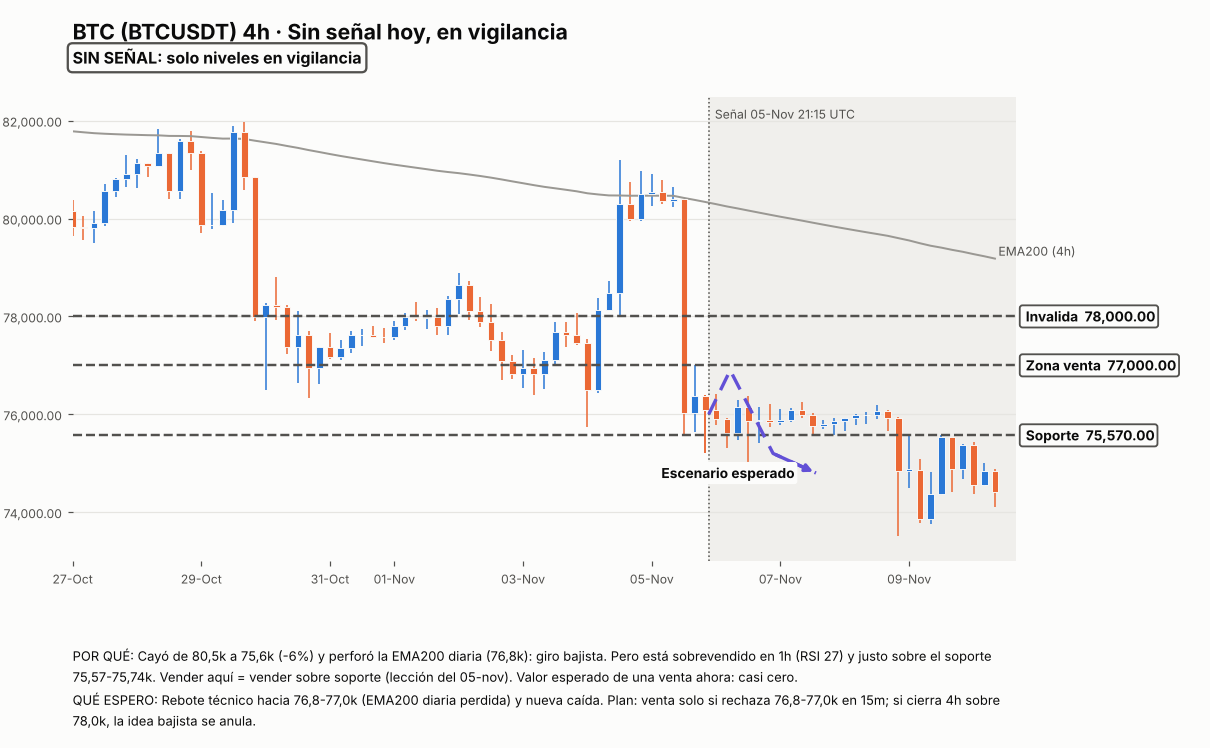
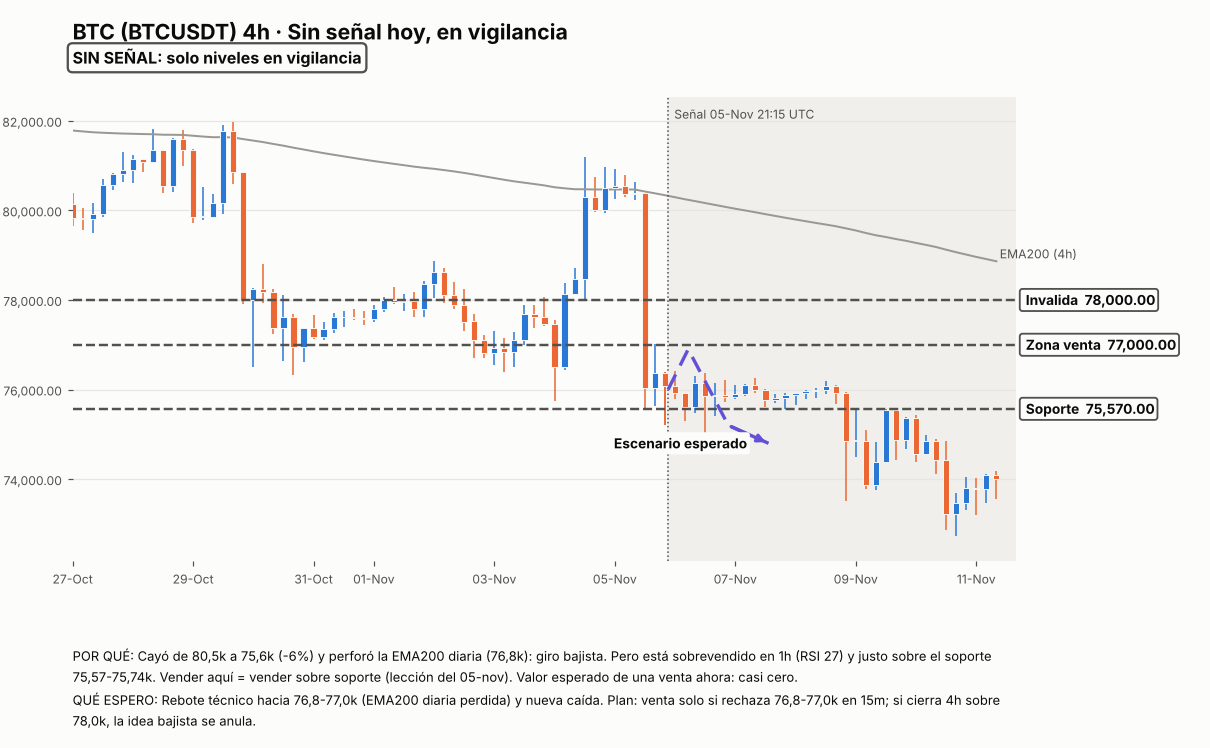
Reporte final del experimento de señales (2026-11-04 al 2026-11-11)
Claude-Session: https://claude.ai/code/session_0112KUKrpuvRoY46F1J2fEYn

diff --git a/trading_bot/paper_signals/REPORTE_FINAL.md b/trading_bot/paper_signals/REPORTE_FINAL.md
@@ -1,0 +1,50 @@
+# Reporte final del experimento de señales (2026-11-04 al 2026-11-11)
+
+## 1. Simulación (100 USD, 1% de riesgo por operación)
+| # | Activo | Tipo | Resultado |
+|---|---|---|---|
+| 1 | BTC venta límite 81.300 | Cancelada: el precio cayó 5.000 sin llegar a la entrada | 0 |
+| 2 | Oro venta límite 4.078 | Stop | −1,00R (−1,00 USD) |
+| 3 | Oro compra límite 4.112 | Stop | −0,34R (−0,34 USD) |
+
+- Saldo final: **98,66 USD (−1,34%)**. Ganadoras 0 de 2. Profit factor 0.
+- Costo de spread: 0,01 USD (~0,01R por operación): no fue la causa de las pérdidas.
+- Calibración de probabilidades: no medible. Las 2 operaciones cerradas eran anteriores a la
+  columna `prob`; después del 2026-11-05 no se dio ninguna señal nueva porque ninguna pasó el
+  filtro (R:R ≥ 2 y valor esperado positivo con margen).
+- Gestión parcial: no llegó a aplicarse en la simulación (ninguna operación tocó +1R).
+
+## 2. Demo del usuario (MetaTrader, 100.000 USD)
+| Operación | P&L |
+|---|---|
+| #2 oro venta (entró tarde, lote 0,10) | −124,30 |
+| #3 oro compra (protección: stop a la entrada en +1R) | +14,20 |
+| 6-nov venta 1 de oro (plan condicional; mitad en 4.057,66 y resto con stop protegido) | +825,60 |
+| 6-nov venta 2 de oro (duplicada, cerrada a mano) | +301,75 |
+| **Total** | **+1.017,25 (+1,02%)** |
+
+- Ganadoras 3 de 4; profit factor 9,2.
+- Falta registrar la venta de oro en 5m del 2026-11-10 (ganadora, sin captura del historial).
+- La protección (#3) convirtió una pérdida de ~1.000 USD en +14. La gestión parcial del 6-nov
+  aseguró +676 en la mitad y +149 en el resto cuando el oro rebotó a 4.078.
+- Ojo: la mayor parte de la ganancia vino de planes condicionales tomados fuera de horario y con
+  una posición duplicada (2% de riesgo en una sola idea). Salió bien, pero no fue según las reglas.
+
+## 3. ¿Se cumplió lo esperado?
+- **Dirección**: casi siempre correcta. Oro, euro y BTC siguieron el sesgo bajista (dólar fuerte,
+  aversión al riesgo): BTC de 80,5k a 72,9k; oro rechazado dos veces en la EMA50 diaria (4.144).
+- **Entradas**: casi nunca en horario. Las zonas de entrada se tocaron de madrugada (02:00-04:00 y
+  22:00 del servidor) o el precio se fue sin regresar a la zona. De ~10 planes, 1 se activó en
+  horario (6-nov) y 2 fallaron (apertura del lunes con gap; señales #2 y #3).
+- Lección: con órdenes límite en zonas lejanas y solo 3,5 h de ventana, la mayoría de las ideas
+  correctas no se pueden ejecutar. Hay que revisar la ventana o el tipo de entrada.
+
+## 4. Conclusión honesta
+- 3 operaciones simuladas y 4 en la demo son una muestra demasiado pequeña: **no distinguen
+  habilidad de suerte**. La simulación perdió −1,34%; la demo ganó +1,02% en buena parte por
+  decisiones fuera de las reglas.
+- Lo que sí funcionó: la protección (stop a la entrada) y la gestión parcial; no operar en
+  aperturas ni en datos fuertes (empleo, IPC).
+- Siguiente paso propuesto: la prueba de 10 operaciones de oro en 5m con la regla S2c
+  (`backtest/RESULTADOS_ORO_5M.md`), que es mecánica y medible, y seguir el análisis diario solo
+  como apoyo.

diff --git a/CLAUDE.md b/CLAUDE.md
@@ -37,6 +37,8 @@ errores; la rentabilidad es secundaria. Ser honesto: si algo no funciona o pierd
     ruptura de rango de 20 velas) y un TABLERO final, desde el 2026-11-10): `python -m paper_signals.analyze 1d 4h` / `1h 30m 15m`,
     `python -m paper_signals.evaluate`, `python -m paper_signals.charts` (desde `trading_bot/`).
   - Al 2026-11-05: 2 operaciones cerradas, ambas perdedoras (simulación 98,66 USD de 100).
+  - TERMINADO el 2026-11-11: reporte final en `trading_bot/paper_signals/REPORTE_FINAL.md`
+    (simulación −1,34%; demo +1,02%). Pendiente: el usuario decide si sigue el análisis diario.
   - Demo del usuario al 2026-11-06: saldo 101.017,25 USD (+1.017,25). El 6-nov ganó +1.127 en
     dos ventas de oro tomadas de planes condicionales (no señales), una de ellas duplicada.
 - Twelve Data conectado (2026-11-06): la API key la inyecta el proxy en `api.twelvedata.com`

diff --git a/trading_bot/paper_signals/REPORTE.md b/trading_bot/paper_signals/REPORTE.md
@@ -1,6 +1,6 @@
 # Experimento de señales en paper — reporte
 
-Generado: 2026-11-10 12:18 UTC · capital simulado 100 USD · riesgo 1.0% por operación · sin apalancamiento
+Generado: 2026-11-11 12:16 UTC · capital simulado 100 USD · riesgo 1.0% por operación · sin apalancamiento
 
 |   id | creada           | activo   | dir   | tipo   |   entrada |   stop |    tp | estado    | ejecutada   | salida   | parcial   |   prob |   pnl_usd |     R |   costo_spread |
 |-----:|:-----------------|:---------|:------|:-------|----------:|-------:|------:|:----------|:------------|:---------|:----------|-------:|----------:|------:|---------------:|
